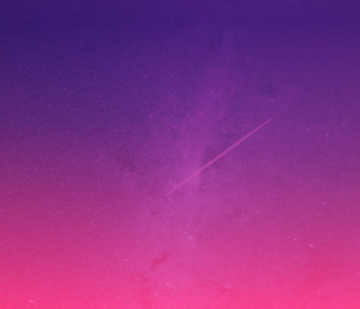
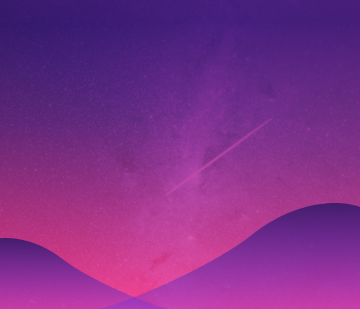
fix: 로고 수정

Changed region(s): [[0.0, 0.6408, 1.0, 1.0]]

diff --git a/src/components/layout/global-layout.tsx b/src/components/layout/global-layout.tsx
@@ -1,10 +1,10 @@
-import { Link, Outlet, useLocation } from "react-router";
-import logoSrc from "@/img/logo.png";
+import { Link, Outlet, useLocation } from 'react-router'
+import LogoIcon from '@/assets/icons/common/logo.svg?react'
 
 export default function GlobalLayout() {
-  const { pathname } = useLocation();
-  const isHome = pathname === "/";
-  const isImmersivePage = isHome || pathname.startsWith("/active");
+  const { pathname } = useLocation()
+  const isHome = pathname === '/'
+  const isImmersivePage = isHome || pathname.startsWith('/active')
 
   return (
     <div className="flex min-h-screen flex-col">
@@ -16,23 +16,16 @@ export default function GlobalLayout() {
                 to="/"
                 className={`inline-flex shrink-0 items-center rounded-md outline-none focus-visible:ring-2 focus-visible:ring-offset-2 ${
                   isHome
-                    ? "focus-visible:ring-white/80 ring-offset-transparent"
-                    : "focus-visible:ring-ring ring-offset-background"
+                    ? 'ring-offset-transparent focus-visible:ring-white/80'
+                    : 'focus-visible:ring-ring ring-offset-background'
                 }`}
               >
-                <img
-                  src={logoSrc}
-                  alt="Still star"
-                  className="h-8 w-auto max-h-10 object-contain"
-                  width={160}
-                  height={40}
-                  decoding="async"
-                />
+                <LogoIcon className="h-[15px] w-fit" />
               </Link>
             </div>
           </header>
         ) : null}
-        <div className={isImmersivePage ? "" : "px-4 pb-6"}>
+        <div className={isImmersivePage ? '' : 'px-4 pb-6'}>
           <Outlet />
         </div>
       </main>
@@ -42,5 +35,5 @@ export default function GlobalLayout() {
         </footer>
       ) : null}
     </div>
-  );
+  )
 }

diff --git a/src/components/ui/header.tsx b/src/components/ui/header.tsx
@@ -2,6 +2,7 @@ import { IconButton } from './icon-button'
 import BackIcon from '@/assets/icons/common/back.svg?react'
 import logoImage from '@/img/logo.png'
 import { cn } from '@/lib/utils'
+import LogoIcon from '@/assets/icons/common/logo.svg?react'
 
 type HeaderProps = {
   showBackButton?: boolean
@@ -15,11 +16,7 @@ export default function Header({ showBackButton = true }: HeaderProps) {
         showBackButton ? 'justify-between' : 'justify-start px-8'
       )}
     >
-      <img
-        src={logoImage}
-        alt="Still Star"
-        className="h-5 w-auto"
-      />
+      <LogoIcon className="h-[15px] w-fit" />
       {showBackButton ? <IconButton icon={<BackIcon />} /> : null}
     </header>
   )
